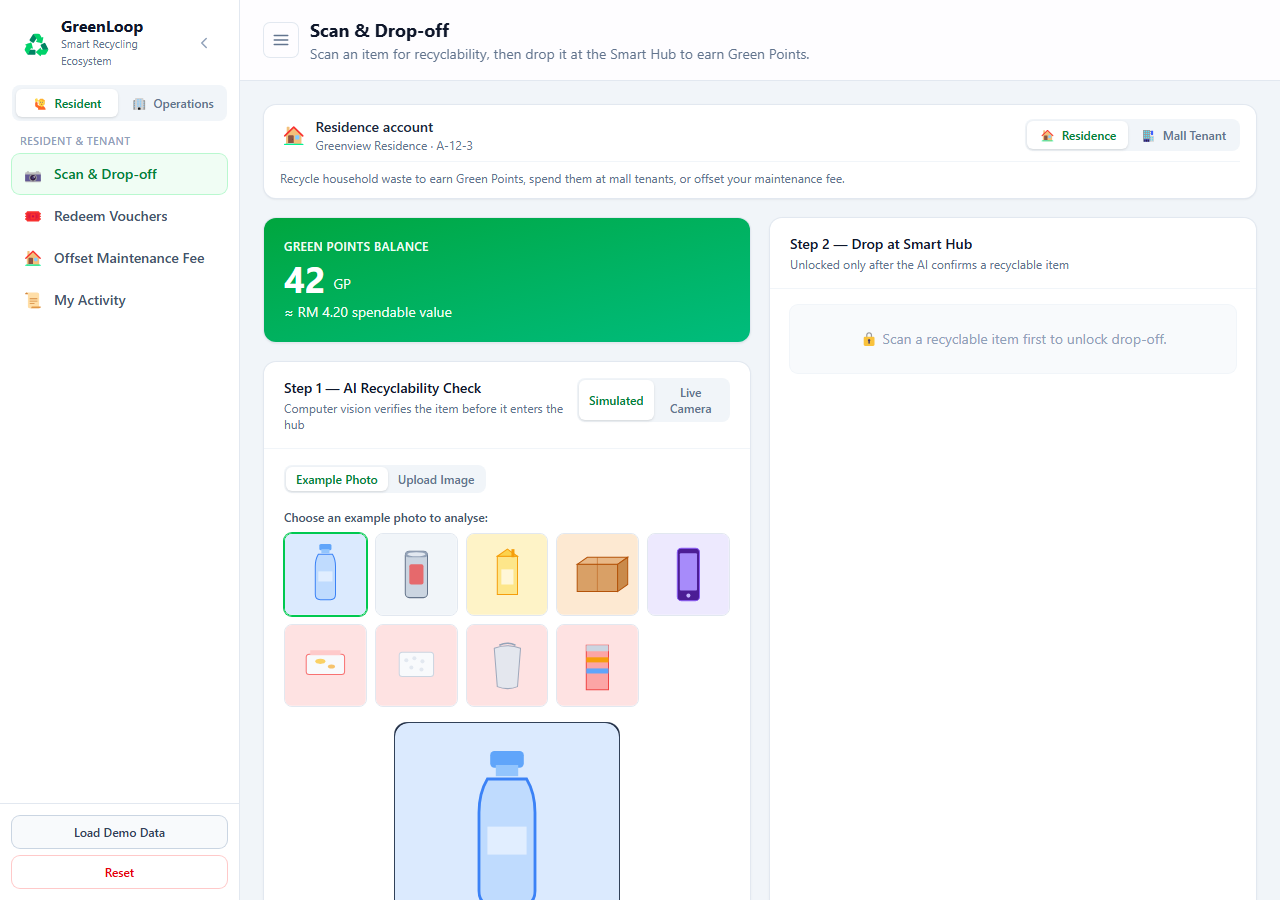
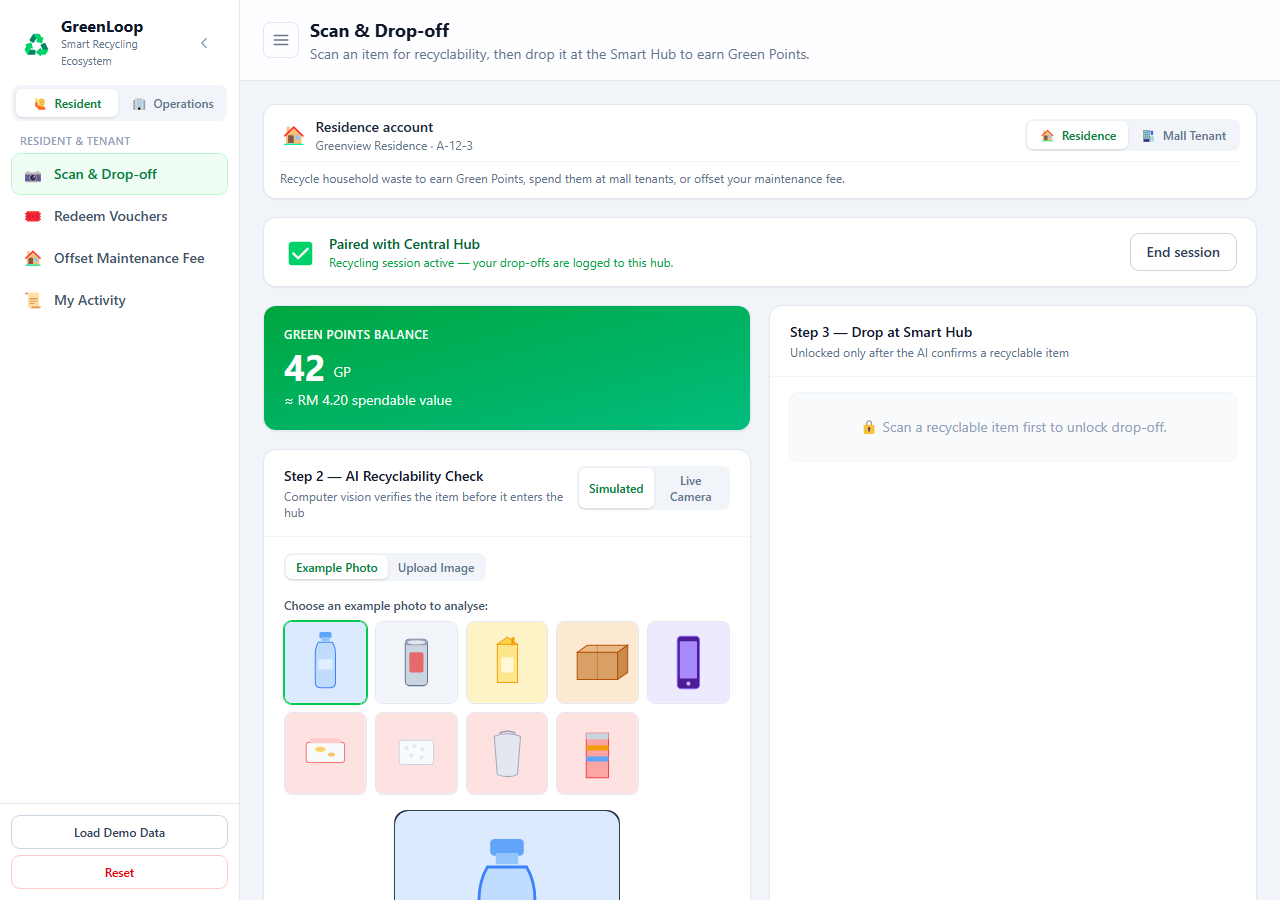
Add hub QR pairing session and hub contribution ranking

diff --git a/src/views/ResidentView.jsx b/src/views/ResidentView.jsx
@@ -12,6 +12,7 @@ import { Card, CardHeader, Button, CategoryBadge, StreamBadge } from '../compone
 import ScanItem from '../components/ScanItem.jsx'
 import CameraScan from '../components/CameraScan.jsx'
 import VoucherModal from '../components/VoucherModal.jsx'
+import HubSession from '../components/HubSession.jsx'
 
 // -------------------------------------------------------------------------
 // GP balance card (shared header on resident pages)
@@ -58,6 +59,7 @@ function ScanAndDropoff() {
   const [lines, setLines] = useState([])
   const [result, setResult] = useState(null)
   const [mode, setMode] = useState('sim') // 'sim' | 'camera'
+  const [pairedHub, setPairedHub] = useState(null) // Smart Hub session (QR pairing)
 
   const acct = state.accountType // 'residence' | 'tenant'
   const capFor = (itemId) => dropoffCap(acct, itemId)
@@ -101,27 +103,50 @@ function ScanAndDropoff() {
     const dropped = []
     for (const { line, preview } of previews) {
       if (preview.quantity > 0) {
-        dispatch({ type: 'DROP_OFF', itemId: line.itemId, quantity: line.quantity })
+        // Attribute the drop-off to the paired hub so it feeds that hub's bin.
+        dispatch({ type: 'DROP_OFF', itemId: line.itemId, quantity: line.quantity, hubId: pairedHub?.id })
         dropped.push(preview)
       }
     }
     if (dropped.length === 0) return
     setResult({
       lines: dropped,
+      hubName: pairedHub?.name,
       totalGP: dropped.reduce((s, d) => s + d.tokensAwarded, 0),
       totalWeight: dropped.reduce((s, d) => s + d.totalWeight, 0),
       totalItems: dropped.reduce((s, d) => s + d.quantity, 0),
       at: Date.now(),
     })
+    // Clear the scanned items; keep the session open for more drop-offs.
+    setLines([])
+  }
+
+  function endSession() {
+    setPairedHub(null)
+    setLines([])
+    setResult(null)
+  }
+
+  // Before pairing with a hub, show only the GP balance + the QR session step.
+  if (!pairedHub) {
+    return (
+      <div className="space-y-5">
+        <GPBalance balance={account.tokenBalance} />
+        <HubSession pairedHub={null} onPaired={setPairedHub} onEnd={endSession} />
+      </div>
+    )
   }
 
   return (
-    <div className="grid grid-cols-1 gap-5 lg:grid-cols-2">
+    <div className="space-y-5">
+      <HubSession pairedHub={pairedHub} onPaired={setPairedHub} onEnd={endSession} />
+
+      <div className="grid grid-cols-1 gap-5 lg:grid-cols-2">
       <GPBalance balance={account.tokenBalance} />
 
       <Card className="lg:row-span-2">
         <CardHeader
-          title="Step 2 — Drop at Smart Hub"
+          title="Step 3 — Drop at Smart Hub"
           subtitle="Unlocked only after the AI confirms a recyclable item"
         />
         <div className="space-y-4 px-5 py-4">
@@ -178,7 +203,7 @@ function ScanAndDropoff() {
           {result && (
             <div className="animate-fade-slide rounded-xl bg-green-50 p-4 ring-1 ring-green-200">
               <p className="text-sm font-semibold text-green-800">
-                ✅ Drop-off confirmed — {result.lines.length} material
+                ✅ Drop-off confirmed at {result.hubName} — {result.lines.length} material
                 {result.lines.length > 1 ? 's' : ''} graded
               </p>
               <div className="mt-3 grid grid-cols-3 gap-3 text-center">
@@ -202,7 +227,7 @@ function ScanAndDropoff() {
 
       <Card>
         <CardHeader
-          title="Step 1 — AI Recyclability Check"
+          title="Step 2 — AI Recyclability Check"
           subtitle="Computer vision verifies the item before it enters the hub"
           right={
             <div className="inline-flex rounded-lg bg-slate-100 p-0.5 text-xs font-semibold">
@@ -259,6 +284,7 @@ function ScanAndDropoff() {
           </div>
         </div>
       </Card>
+      </div>
     </div>
   )
 }

diff --git a/src/components/HubSession.jsx b/src/components/HubSession.jsx
@@ -1,0 +1,86 @@
+import { useState } from 'react'
+import { COLLECTION_HUBS } from '../data/catalog.js'
+import { Card, CardHeader, Button } from './ui.jsx'
+
+// Hub QR pairing: the resident "scans a hub QR" to start a recycling session.
+// Drop-off is attributed to the paired hub (so it feeds that hub's live bin).
+// Simulated: pick a hub from a QR grid; a short "pairing" animation runs.
+export default function HubSession({ pairedHub, onPaired, onEnd }) {
+  const [pairing, setPairing] = useState(null) // hub being paired (during anim)
+
+  function pair(hub) {
+    setPairing(hub)
+    setTimeout(() => {
+      setPairing(null)
+      onPaired(hub)
+    }, 900)
+  }
+
+  if (pairedHub) {
+    return (
+      <Card className="bg-green-50 ring-green-200">
+        <div className="flex flex-wrap items-center justify-between gap-3 px-5 py-4">
+          <div className="flex items-center gap-3">
+            <span className="text-2xl">✅</span>
+            <div>
+              <p className="text-sm font-semibold text-green-800">
+                Paired with {pairedHub.name}
+              </p>
+              <p className="text-xs text-green-600">
+                Recycling session active — your drop-offs are logged to this hub.
+              </p>
+            </div>
+          </div>
+          <Button variant="secondary" onClick={onEnd}>
+            End session
+          </Button>
+        </div>
+      </Card>
+    )
+  }
+
+  return (
+    <Card>
+      <CardHeader
+        title="Step 1 — Scan Hub QR to start a session"
+        subtitle="Pair with a Smart Hub before dropping off (like scanning the hub's QR on arrival)"
+      />
+      <div className="px-5 py-4">
+        {pairing ? (
+          <div className="flex flex-col items-center justify-center gap-2 rounded-xl bg-slate-900 py-8 text-center text-white">
+            <div className="text-3xl">📷</div>
+            <p className="animate-pulse text-sm text-green-300">
+              Scanning QR… pairing with {pairing.name}
+            </p>
+          </div>
+        ) : (
+          <>
+            <p className="mb-3 text-xs text-slate-500">
+              Tap a hub's QR code to pair (in a real deployment you'd scan the QR sticker on the hub):
+            </p>
+            <div className="grid grid-cols-2 gap-2 sm:grid-cols-3">
+              {COLLECTION_HUBS.map((h) => (
+                <button
+                  key={h.id}
+                  onClick={() => pair(h)}
+                  className="flex items-center gap-2 rounded-lg border border-slate-200 p-3 text-left transition hover:border-green-400 hover:bg-green-50"
+                >
+                  <span className="grid h-10 w-10 shrink-0 place-items-center rounded-md bg-slate-900 text-white">
+                    {/* mini QR glyph */}
+                    <svg width="22" height="22" viewBox="0 0 22 22" fill="currentColor">
+                      <path d="M2 2h6v6H2V2zm2 2v2h2V4H4zm10-2h6v6h-6V2zm2 2v2h2V4h-2zM2 14h6v6H2v-6zm2 2v2h2v-2H4zm8-2h2v2h-2v-2zm4 0h4v2h-2v2h2v2h-4v-2h-2v-2h2v-2zm-4 4h2v4h-2v-4z" />
+                    </svg>
+                  </span>
+                  <span className="min-w-0">
+                    <span className="block truncate text-sm font-medium text-slate-800">{h.name}</span>
+                    <span className="block text-[11px] text-slate-400">QR: {h.id.toUpperCase()}</span>
+                  </span>
+                </button>
+              ))}
+            </div>
+          </>
+        )}
+      </div>
+    </Card>
+  )
+}

diff --git a/src/views/ManagementView.jsx b/src/views/ManagementView.jsx
@@ -16,7 +16,7 @@ import {
   ReferenceLine,
 } from 'recharts'
 import { useStore } from '../store/StoreContext.jsx'
-import { CATEGORIES, ECONOMICS } from '../data/catalog.js'
+import { CATEGORIES, ECONOMICS, COLLECTION_HUBS } from '../data/catalog.js'
 import { aggregate, formatRm, formatWeight, formatGP } from '../lib/engine.js'
 import {
   computeRoi,
@@ -104,6 +104,54 @@ function MaterialCharts({ byCategory, scale = 1 }) {
           </PieChart>
         </ResponsiveContainer>
       </div>
+    </div>
+  )
+}
+
+// Rank hubs by how much they've contributed (by weight), from ops transactions
+// that carry a hubId. Shows which hubs drive the township's diversion.
+function HubRanking({ transactions }) {
+  const totals = {}
+  for (const t of transactions) {
+    if (!t.hubId) continue
+    totals[t.hubId] = (totals[t.hubId] || 0) + t.totalWeight
+  }
+  const rows = COLLECTION_HUBS.map((h) => ({ id: h.id, name: h.name, kg: Math.round(totals[h.id] || 0) }))
+    .sort((a, b) => b.kg - a.kg)
+  const max = Math.max(1, ...rows.map((r) => r.kg))
+  const grand = rows.reduce((s, r) => s + r.kg, 0)
+  const medal = ['🥇', '🥈', '🥉']
+
+  if (grand === 0) {
+    return (
+      <div className="px-5 py-8 text-center text-sm text-slate-400">
+        No hub activity yet. Load demo data or record drop-offs.
+      </div>
+    )
+  }
+
+  return (
+    <div className="space-y-2 px-5 py-4">
+      {rows.map((r, i) => (
+        <div key={r.id} className="flex items-center gap-3">
+          <span className="w-6 text-center text-sm">{medal[i] || `${i + 1}`}</span>
+          <span className="w-40 shrink-0 truncate text-sm font-medium text-slate-700" title={r.name}>
+            {r.name}
+          </span>
+          <div className="h-3 flex-1 overflow-hidden rounded-full bg-slate-100">
+            <div
+              className="h-full rounded-full bg-gradient-to-r from-green-500 to-emerald-400"
+              style={{ width: `${(r.kg / max) * 100}%` }}
+            />
+          </div>
+          <span className="w-24 shrink-0 text-right text-xs tabular-nums text-slate-600">
+            {formatWeight(r.kg)}
+          </span>
+          <span className="w-12 shrink-0 text-right text-xs tabular-nums text-slate-400">
+            {Math.round((r.kg / grand) * 100)}%
+          </span>
+        </div>
+      ))}
     </div>
   )
 }
@@ -270,6 +318,15 @@ function DiversionMetrics() {
         <div className="px-5 py-4">
           <MaterialCharts byCategory={baseAgg.byCategory} scale={scope.materialScale} />
         </div>
+      </Card>
+
+      {/* Hub contribution ranking */}
+      <Card>
+        <CardHeader
+          title="Hub Contribution Ranking"
+          subtitle="Which hubs contribute most of the township's diverted waste"
+        />
+        <HubRanking transactions={state.opsTransactions} />
       </Card>
     </div>
   )

diff --git a/README.md b/README.md
@@ -12,6 +12,9 @@ simulated client-side — no backend, no API keys required.
 
 ## Screenshots
 
+### Resident — Scan Hub QR to start a session
+![Hub QR pairing](docs/screenshots/resident-hub-qr.png)
+
 ### Resident — Scan & Drop-off (AI recyclability check → earn GP)
 ![Resident Scan & Drop-off](docs/screenshots/resident-dropoff.png)
 
@@ -96,6 +99,9 @@ next 3 months, 12 months, or 2 years.
 
 1. Click **Load Demo Data** to populate township figures and both resident accounts.
 2. **Scan & Drop-off** (resident):
+   - **Step 1 — Scan Hub QR** to start a recycling session (tap a hub's QR to
+     pair). Drop-offs are attributed to the paired hub, feeding its live
+     capacity in the dispatch sim. End the session any time.
    - **Simulated** mode has two sources: **Example Photo** (generated inline-SVG
      photos analysed with a scan line + detection box) and **Upload Image**
      (a real photo classified in-browser with TensorFlow.js COCO-SSD).
@@ -114,6 +120,7 @@ next 3 months, 12 months, or 2 years.
 6. **Diversion Metrics** (operations) — pick **Monthly/Annual** and a **month/year**;
    the chart shows **actual (solid) vs projected (dashed)** diversion with a
    Malaysian **seasonal pattern** (Hari Raya spike, monsoon dip), plus trend arrows.
+   Includes a **Hub Contribution Ranking** showing which hubs divert the most.
 7. **Financial Ledger** — benefit breakdown, operating surplus, ROI %, CapEx
    payback and a revenue/ROI forecast.
 8. **Logistics & Dispatch** — a **live simulation**: a clock (Play/Pause, speed
